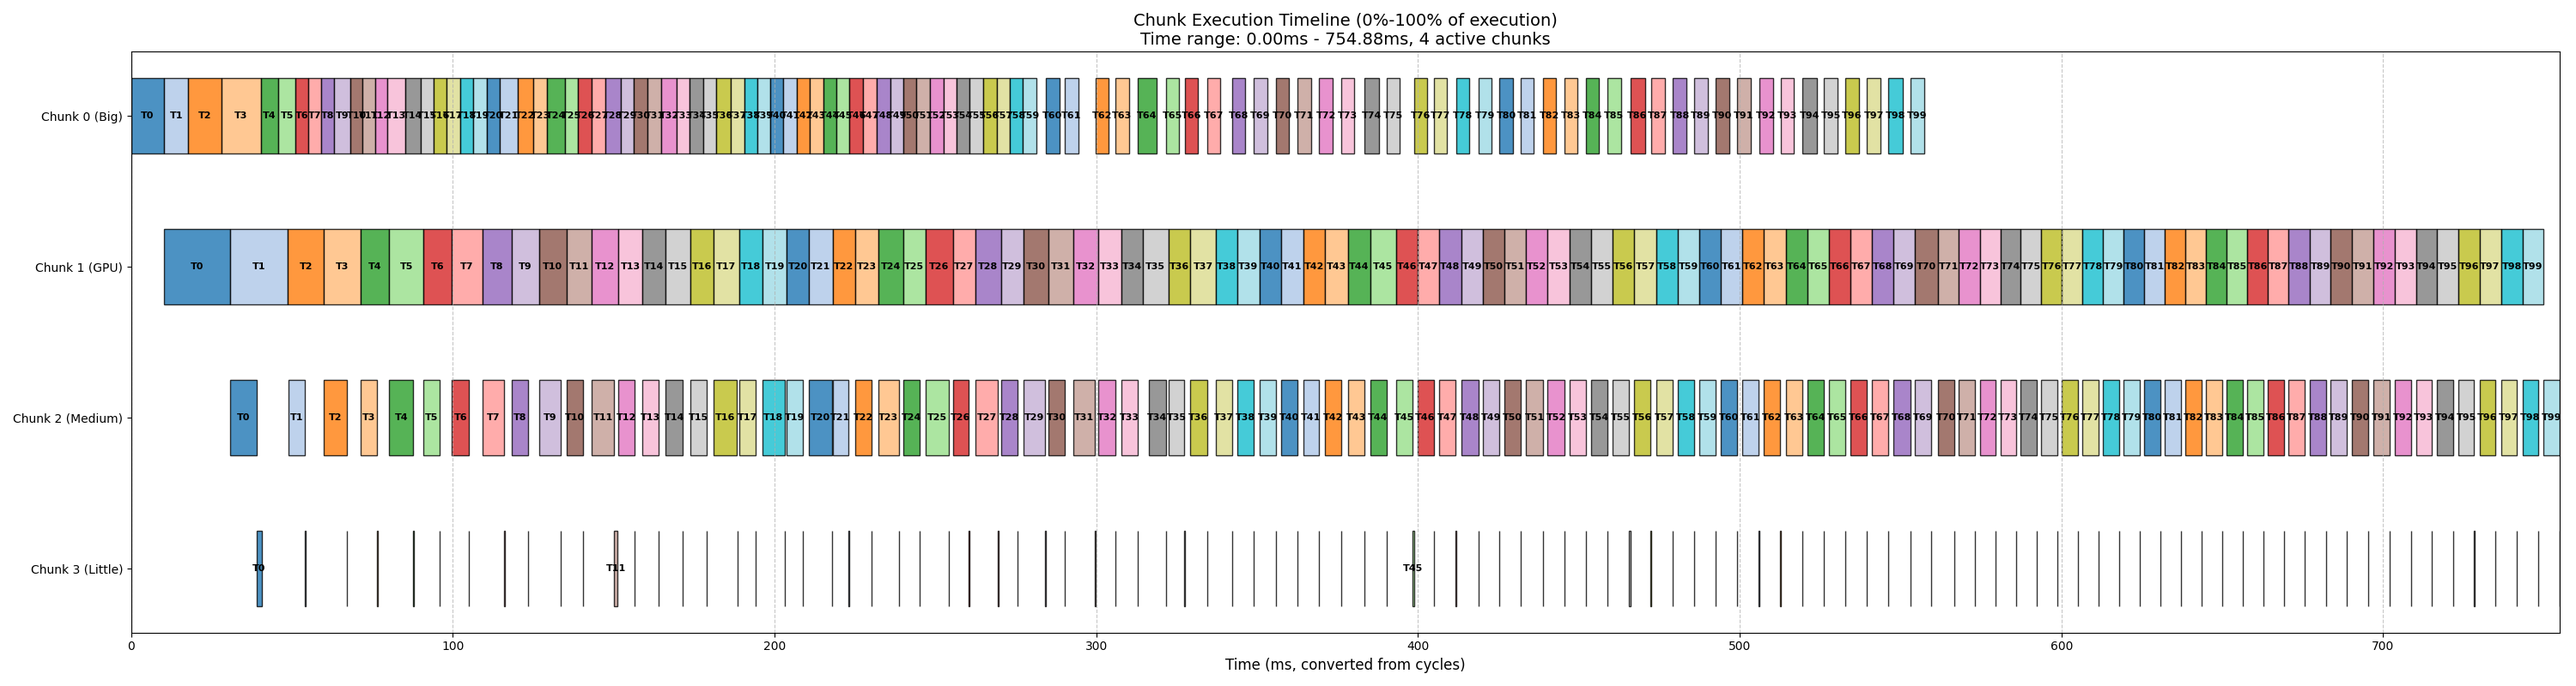
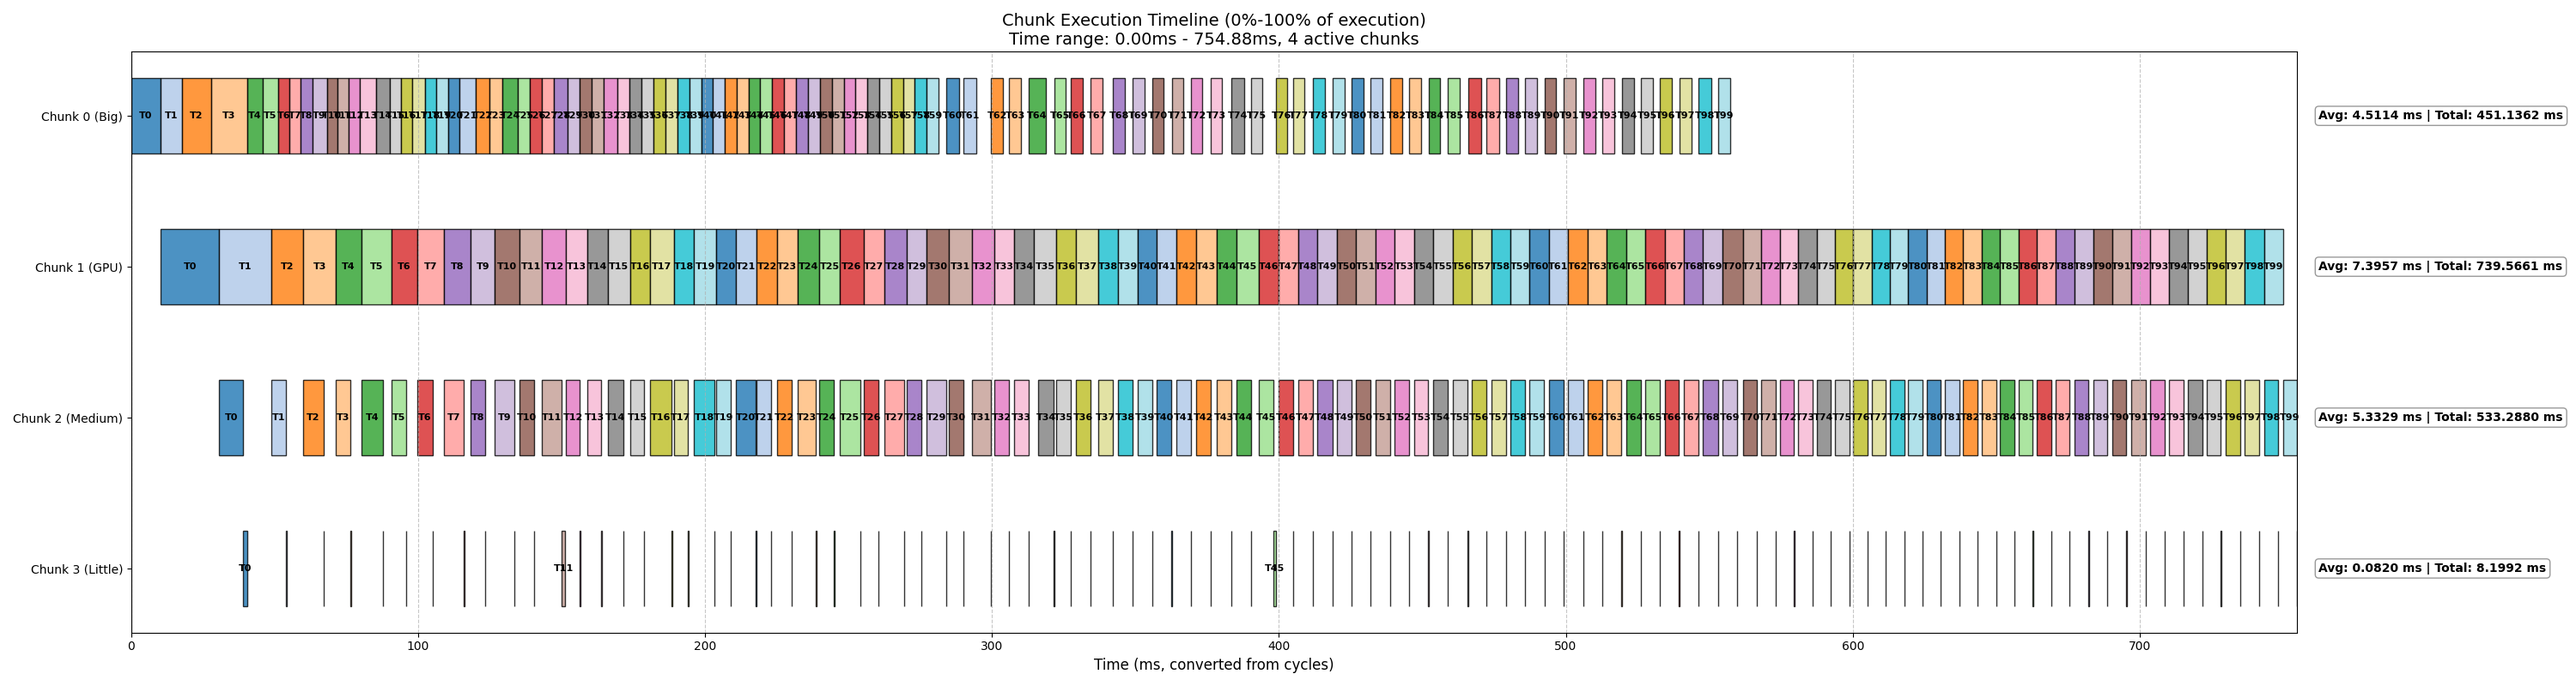
s

diff --git a/scripts-v2/analysis/gen_chunk_figure copy.py b/scripts-v2/analysis/gen_chunk_figure copy.py
@@ -182,7 +182,6 @@ chunks_data = {chunk_id: [] for chunk_id in range(max_chunk_id + 1)}
 tasks_in_region = set()
 task_durations_by_chunk = defaultdict(lambda: defaultdict(list))
 chunk_total_durations = defaultdict(float)
-chunk_avg_durations_ms = {}  # New dictionary to store average durations per chunk
 
 # Fill in the chunks_data dictionary and filter by time range
 for task_id in tasks:
@@ -223,18 +222,6 @@ for task_id in tasks:
                 }
             )
 
-# Calculate average duration for each chunk
-for chunk_id in task_durations_by_chunk:
-    all_durations = [
-        d
-        for task_durations in task_durations_by_chunk[chunk_id].values()
-        for d in task_durations
-    ]
-    if all_durations:
-        avg_duration_cycles = sum(all_durations) / len(all_durations)
-        avg_duration_ms = avg_duration_cycles * CYCLES_TO_MS
-        chunk_avg_durations_ms[chunk_id] = avg_duration_ms
-
 # Sort chunk data by start time
 for chunk_id in chunks_data:
     chunks_data[chunk_id].sort(key=lambda x: x["start_ms"])
@@ -249,15 +236,10 @@ fig, ax = plt.subplots(figsize=(30, 8))  # Increased width to 30 inches
 # Task colors - use a color map for different tasks
 task_color_map = plt.colormaps["tab20"]
 
-# Define chunk names for y-axis labels based on their types and including average duration
-chunk_names = []
-for i in range(max_chunk_id + 1):
-    chunk_type = chunk_types.get(i, "Unknown")
-    if i in chunk_avg_durations_ms:
-        avg_duration = chunk_avg_durations_ms[i]
-        chunk_names.append(f"Chunk {i} ({chunk_type})")
-    else:
-        chunk_names.append(f"Chunk {i} ({chunk_type})")
+# Define chunk names for y-axis labels based on their types
+chunk_names = [
+    f"Chunk {i} ({chunk_types.get(i, 'Unknown')})" for i in range(max_chunk_id + 1)
+]
 
 # Draw the chunks
 y_ticks = []
@@ -314,28 +296,6 @@ for i, chunk_id in enumerate(active_chunks):
                 fontweight="bold",
                 fontsize=8,
             )
-    
-    # Add average duration text at the right side of each chunk's row
-    if chunk_id in chunk_avg_durations_ms:
-        avg_duration = chunk_avg_durations_ms[chunk_id]
-        # Calculate total duration for this chunk
-        total_duration_cycles = chunk_total_durations[chunk_id]
-        total_duration_ms = total_duration_cycles * CYCLES_TO_MS
-        
-        ax.text(
-            display_end_ms + (display_end_ms - display_start_ms) * 0.01,  # Position slightly to the right of the display range
-            y_pos,
-            f"Avg: {avg_duration:.4f} ms | Total: {total_duration_ms:.4f} ms",
-            ha="left",
-            va="center",
-            color="black",
-            fontweight="bold",
-            fontsize=10,
-            bbox=dict(facecolor='white', alpha=0.8, edgecolor='gray', boxstyle='round,pad=0.3')
-        )
-
-# Adjust the right margin to make room for the annotations
-plt.subplots_adjust(right=0.95)
 
 # Set chart properties
 ax.set_yticks(y_ticks)
@@ -406,13 +366,8 @@ for chunk_id in range(max_chunk_id + 1):
     if all_durations:
         avg_all_tasks_cycles = sum(all_durations) / len(all_durations)
         avg_all_tasks_ms = avg_all_tasks_cycles * CYCLES_TO_MS
-        total_duration_cycles = chunk_total_durations[chunk_id]
-        total_duration_ms = total_duration_cycles * CYCLES_TO_MS
         print(
             f"  All Tasks Average: {avg_all_tasks_cycles:.2f} cycles ({avg_all_tasks_ms:.6f} ms)"
-        )
-        print(
-            f"  Total Duration: {total_duration_cycles:.2f} cycles ({total_duration_ms:.6f} ms)"
         )
     print()
 
@@ -440,18 +395,10 @@ if chunk_total_durations:
         chunk_total_durations.items(), key=lambda x: x[1], reverse=True
     ):
         chunk_type = chunk_types.get(chunk_id, "Unknown")
-        total_duration_cycles = duration
-        total_duration_ms = duration * CYCLES_TO_MS
+        duration_ms = duration * CYCLES_TO_MS
         chunk_percentage = (duration / total_execution_cycles) * 100
-        
-        # Add average duration info if available
-        avg_info = ""
-        if chunk_id in chunk_avg_durations_ms:
-            avg_duration_ms = chunk_avg_durations_ms[chunk_id]
-            avg_info = f" | Avg task: {avg_duration_ms:.6f} ms"
-            
         print(
-            f"  Chunk {chunk_id} ({chunk_type}): Total: {total_duration_cycles:.2f} cycles ({total_duration_ms:.6f} ms){avg_info}, {chunk_percentage:.2f}%"
+            f"  Chunk {chunk_id} ({chunk_type}): {duration:.2f} cycles ({duration_ms:.6f} ms), {chunk_percentage:.2f}%"
         )
 else:
     print("No chunk execution data found in the selected region.")
